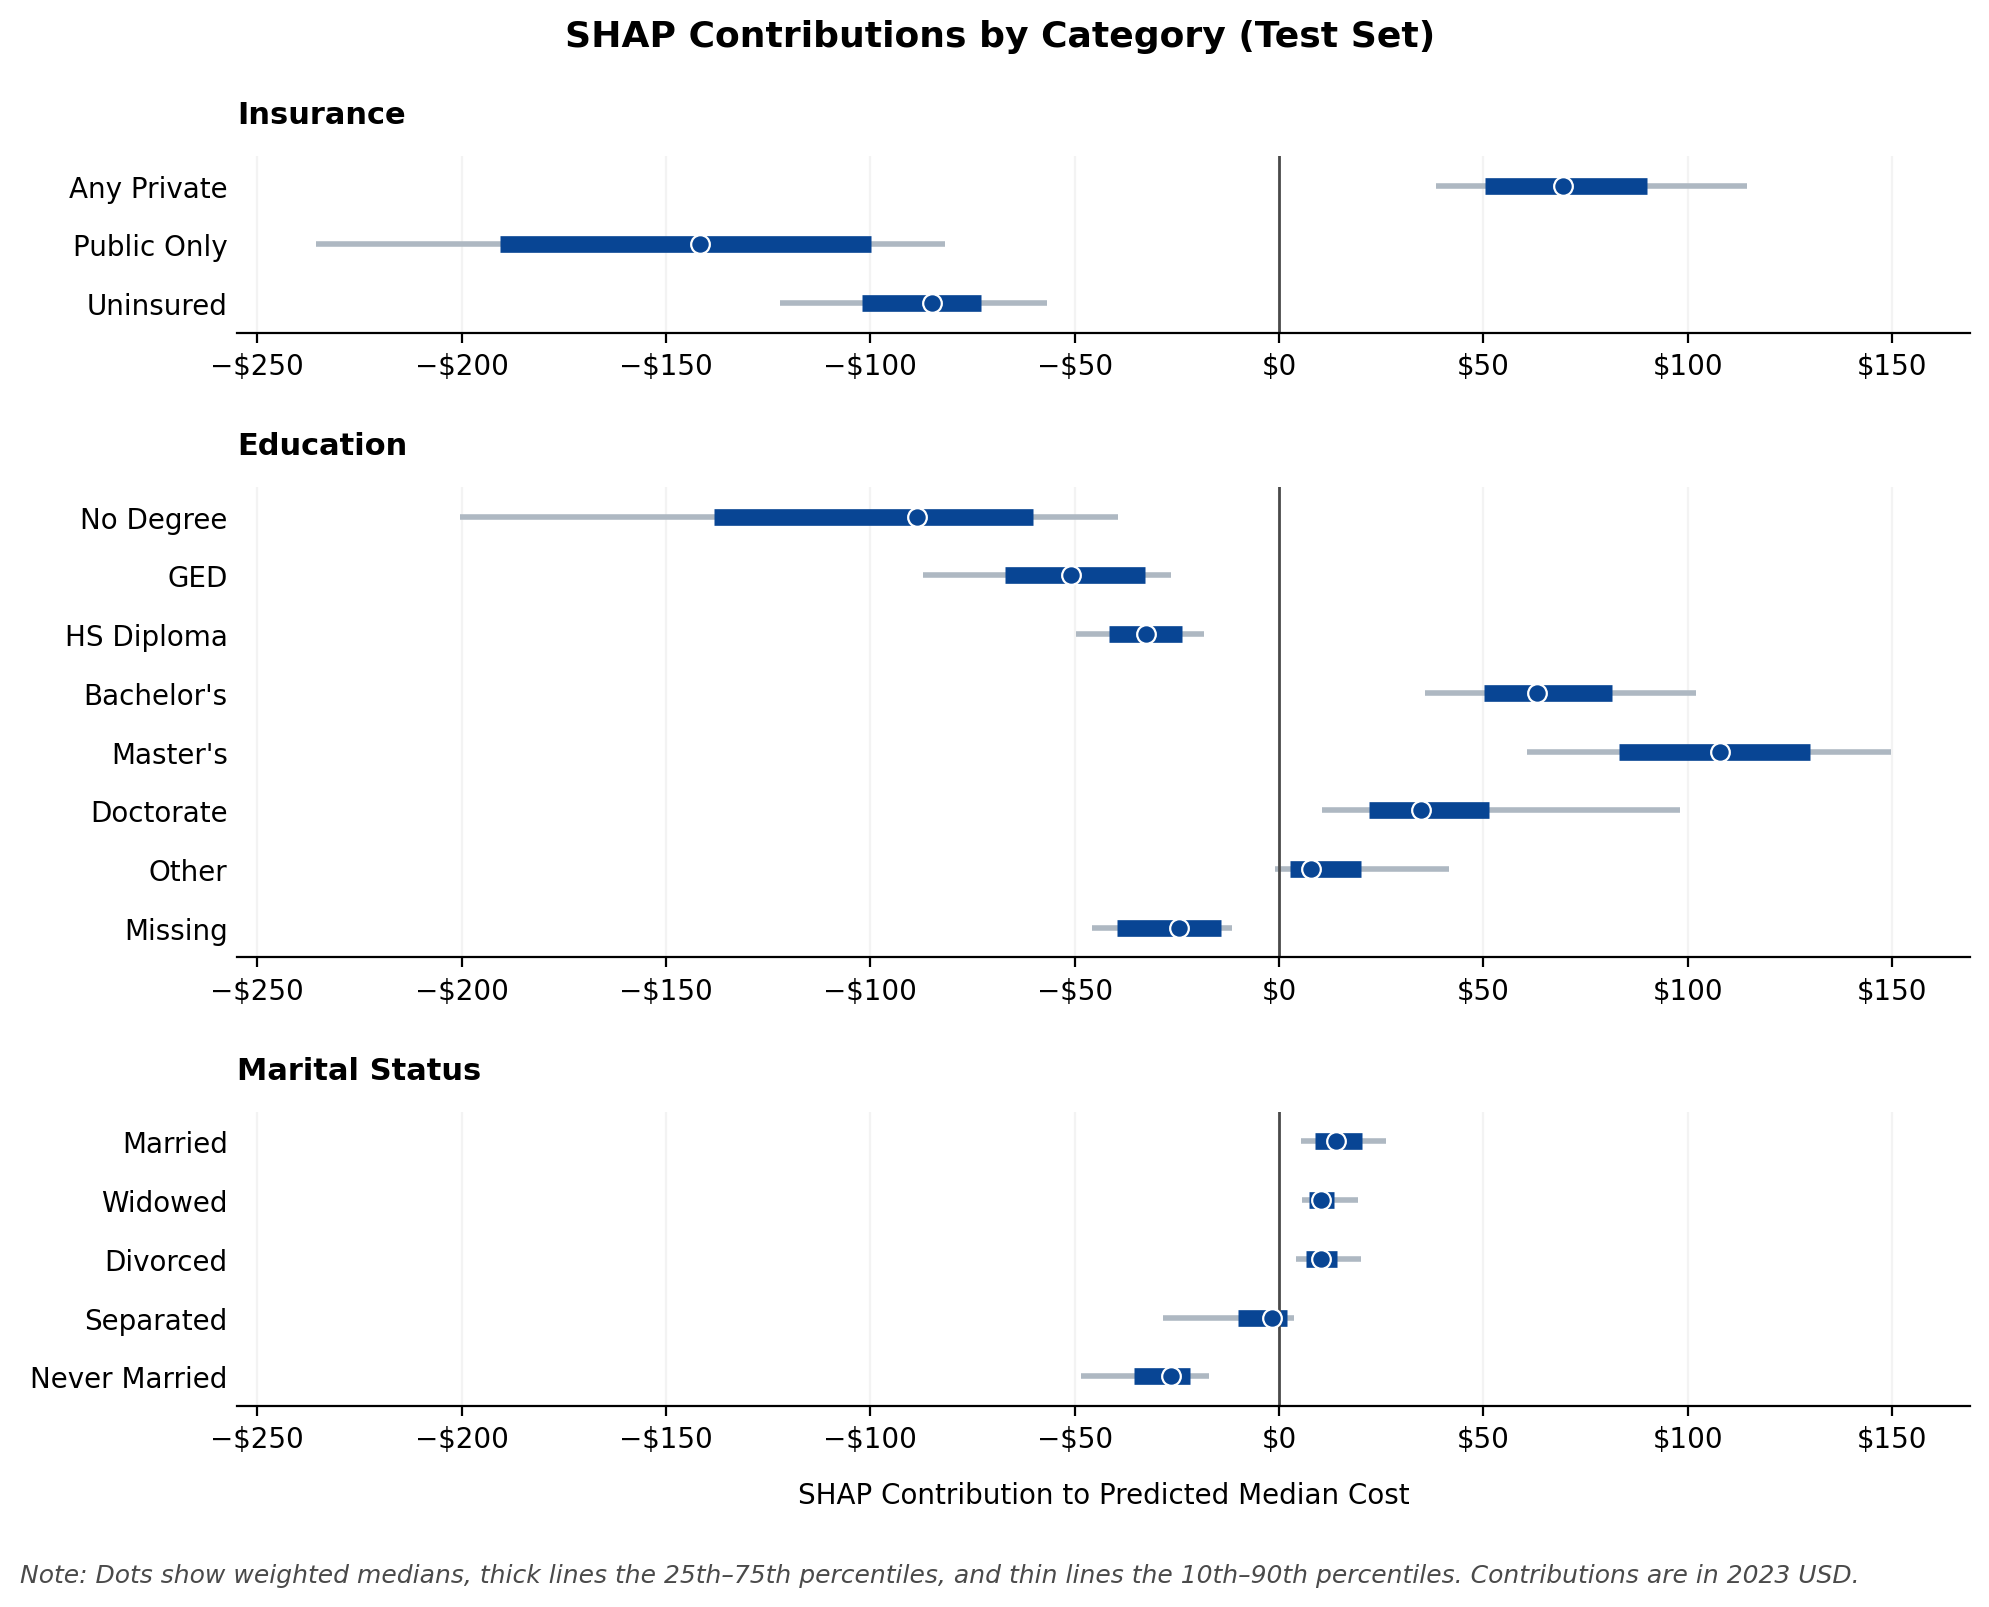
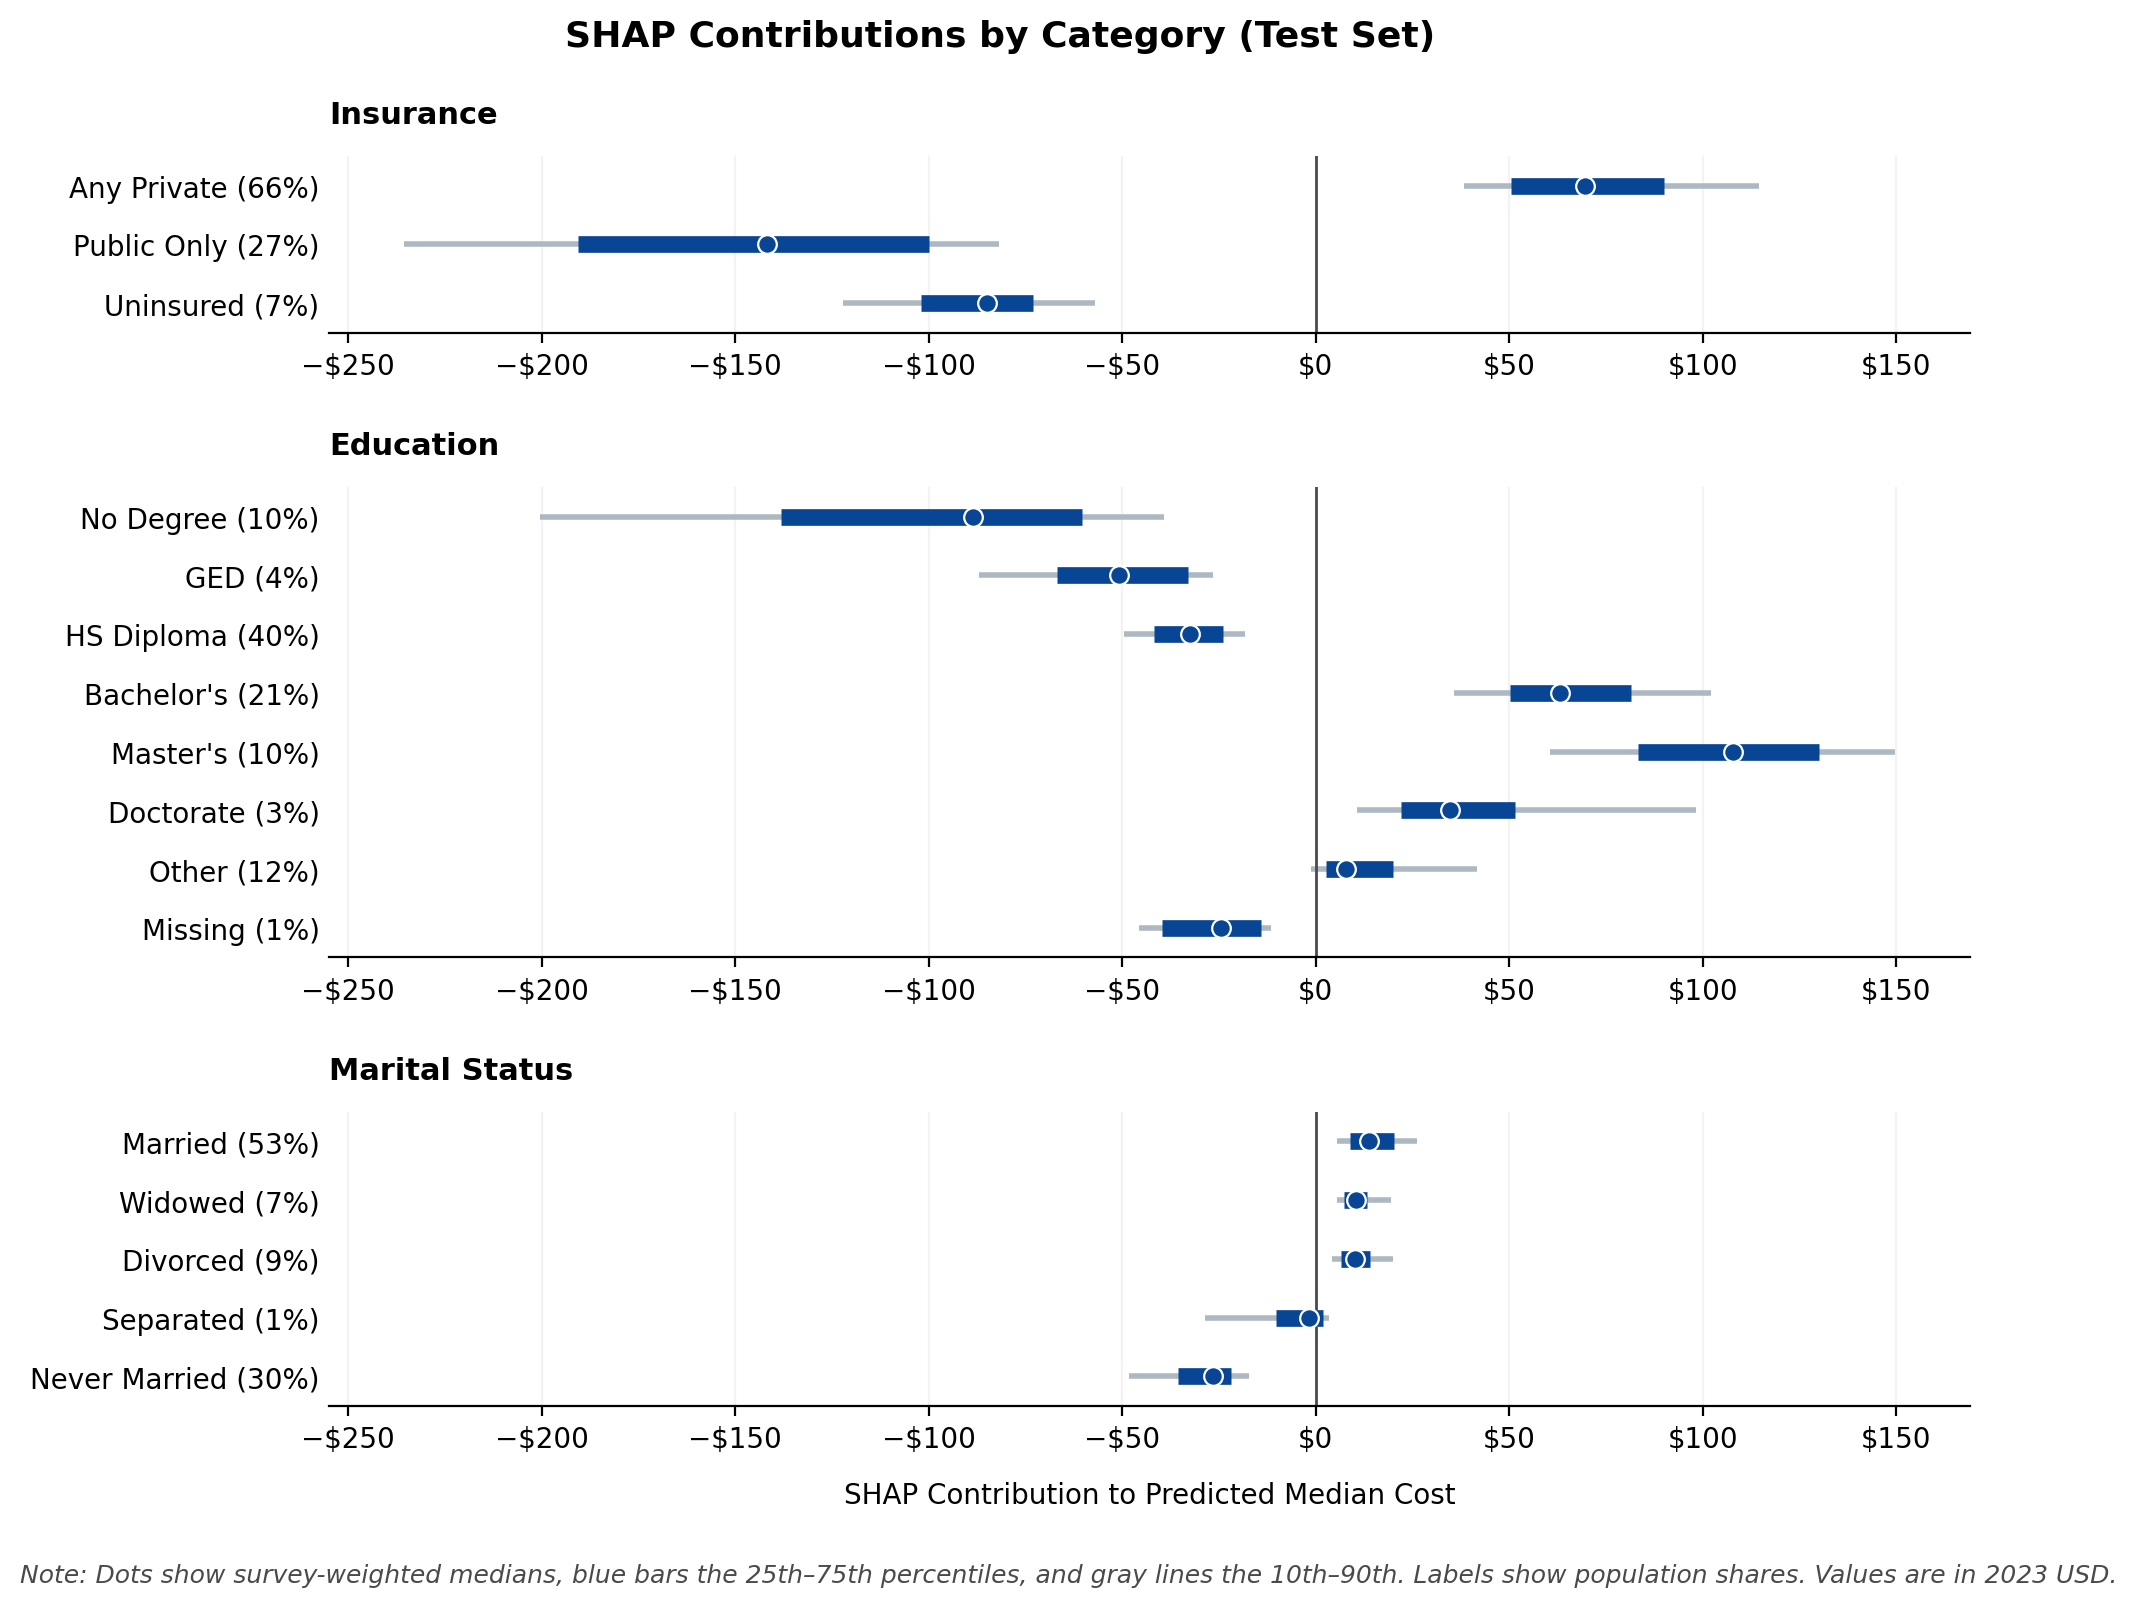
style(eval): add category population shares in categorical SHAP plot and refine note

diff --git a/notebooks/2_modeling.py b/notebooks/2_modeling.py
@@ -5840,6 +5840,7 @@ plt.show()
 # Summarize categorical SHAP contribution distributions with exact survey weights.
 SHAP_CATEGORICAL_FEATURES = ["INSCOV23", "HIDEG", "MARRY31X_GRP"]
 SHAP_CATEGORICAL_QUANTILES = np.array([0.10, 0.25, 0.50, 0.75, 0.90])
+shap_total_test_weight = shap_test_contributions[WEIGHT_COLUMN].sum()
 
 shap_categorical_summary_rows = []
 for feature in SHAP_CATEGORICAL_FEATURES:
@@ -5866,6 +5867,13 @@ for feature in SHAP_CATEGORICAL_FEATURES:
         shap_categorical_summary_rows.append({
             "Feature": feature,
             "Category": category,
+            "Population Share": (
+                shap_test_contributions.loc[
+                    category_mask,
+                    WEIGHT_COLUMN,
+                ].sum()
+                / shap_total_test_weight
+            ),
             "P10": contribution_quantiles[0],
             "P25": contribution_quantiles[1],
             "Median": contribution_quantiles[2],
@@ -5924,7 +5932,14 @@ for ax, feature in zip(axes, SHAP_CATEGORICAL_FEATURES):
         zorder=3,
     )
     ax.axvline(0, color="#4A4A4A", linewidth=1)
-    ax.set_yticks(category_positions, feature_summary["Category"])
+    category_tick_labels = [
+        f"{category} ({population_share:.0%})"
+        for category, population_share in zip(
+            feature_summary["Category"],
+            feature_summary["Population Share"],
+        )
+    ]
+    ax.set_yticks(category_positions, category_tick_labels)
     ax.set_ylim(len(feature_summary) - 0.5, -0.5)
     ax.set_title(
         DISPLAY_LABELS[feature],
@@ -5955,7 +5970,7 @@ fig.text(
     0.01,
     0.01,
     (
-        "Note: Dots show weighted medians, thick lines the 25th–75th percentiles, and thin lines the 10th–90th percentiles. Contributions are in 2023 USD."
+        "Note: Dots show survey-weighted medians, blue bars the 25th–75th percentiles, and gray lines the 10th–90th. Labels show population shares. Values are in 2023 USD."
     ),
     ha="left",
     va="bottom",
